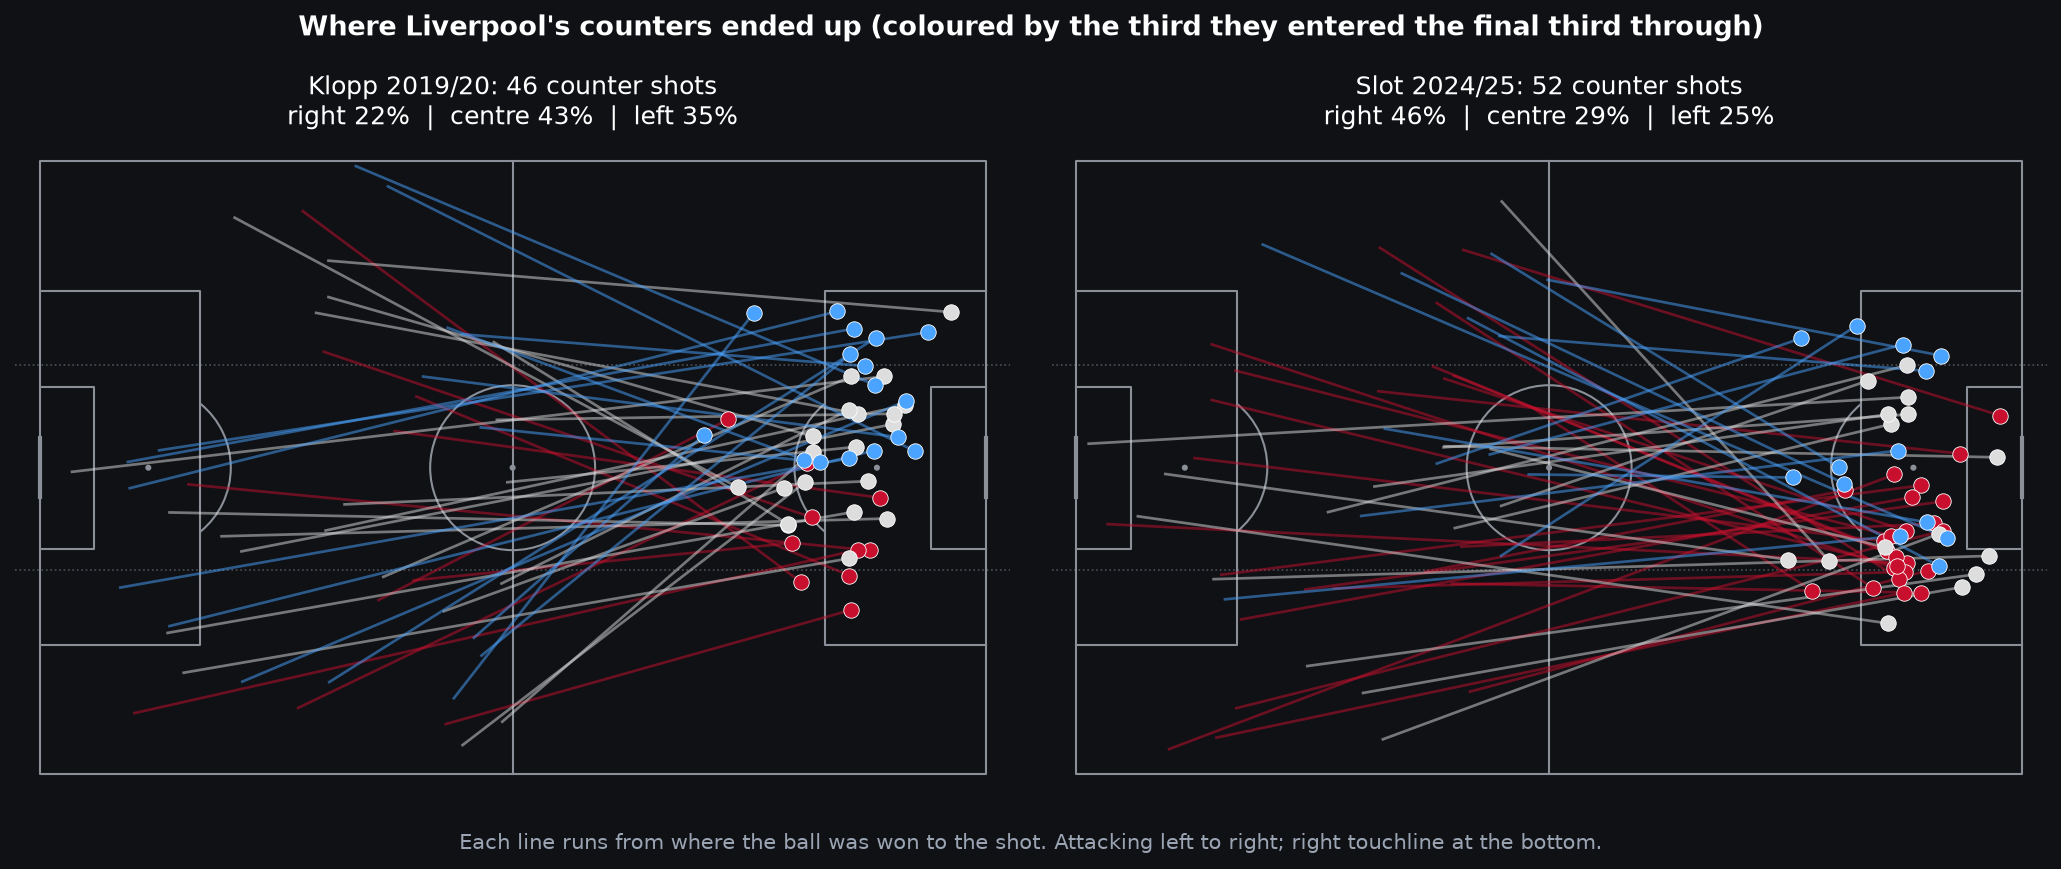
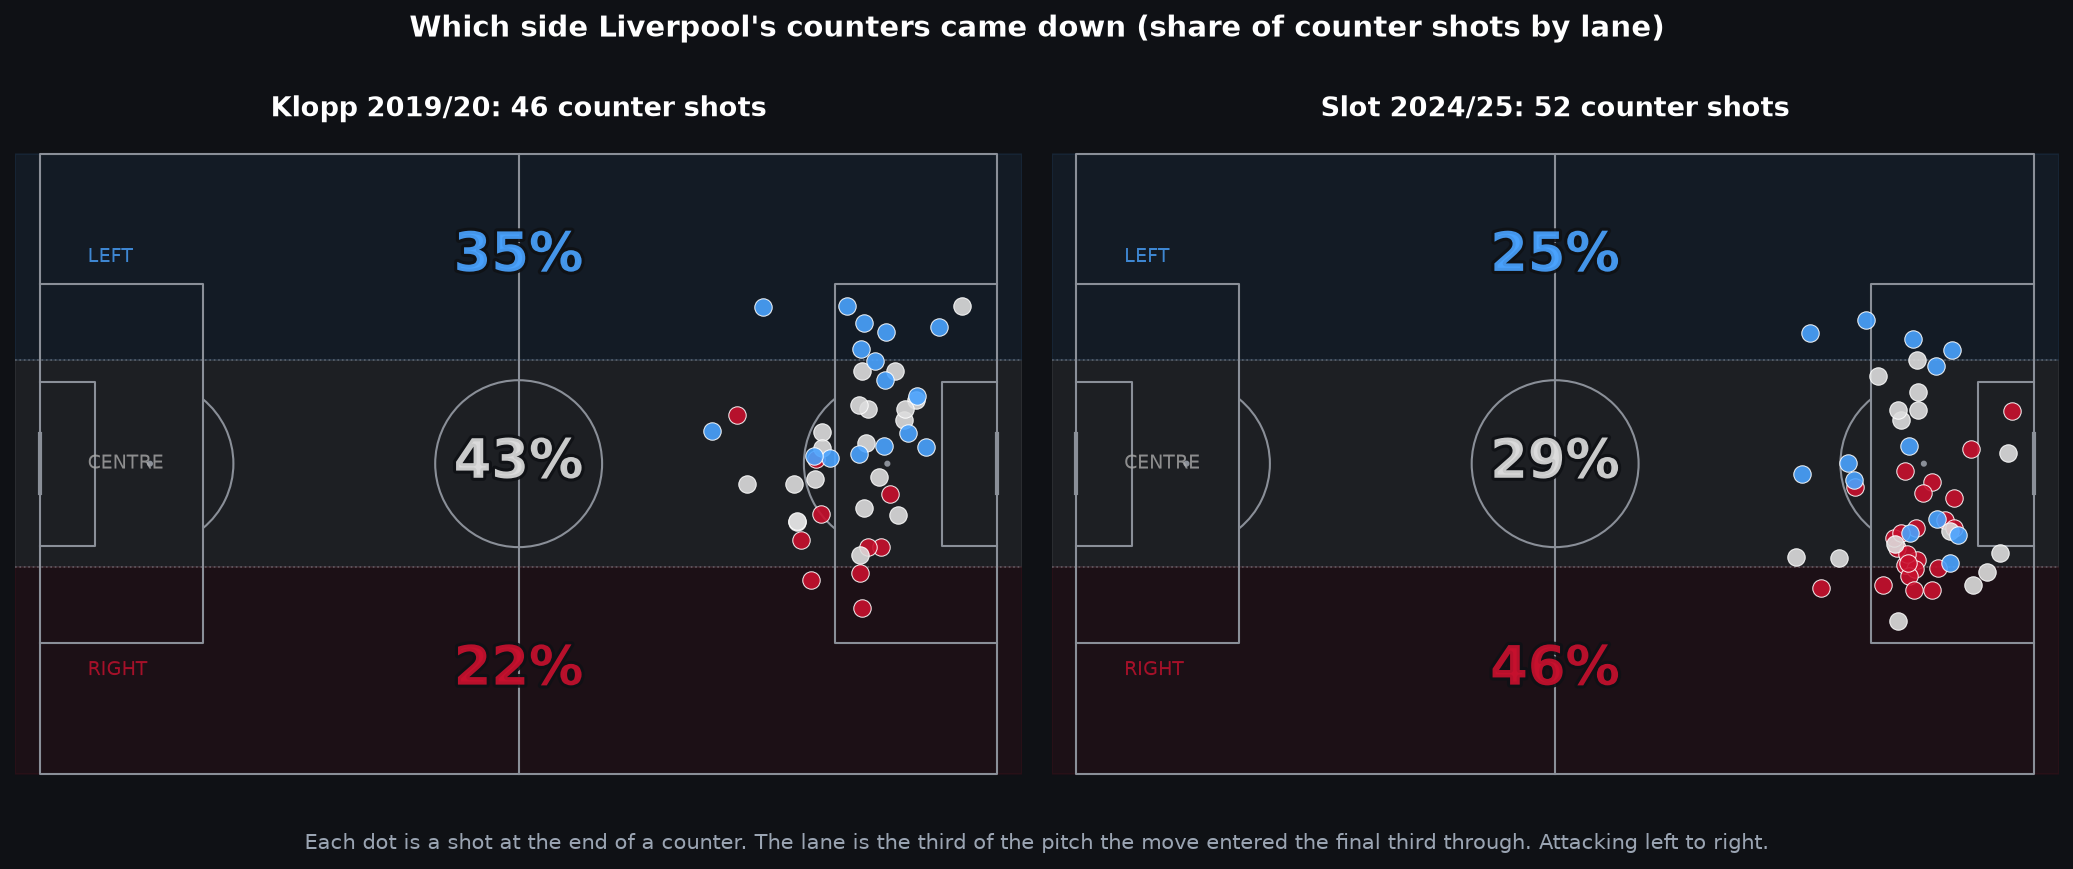
Counter chart: drop arrows, show lane percentages; add ball-recovery-by-thirds pressing chart; trim supporting-cast line

diff --git a/site/content/football/klopp-slot-liverpool-title-sides.md b/site/content/football/klopp-slot-liverpool-title-sides.md
@@ -63,7 +63,17 @@ Klopp's side had more of the ball: 63% possession against 58%, and about 110 mor
 
 One number barely moved: the press. PPDA, which measures how quickly a team swarms the ball back, was 9.8 for Klopp's side and 9.7 for Slot's. On this measure they pressed just as hard.
 
-That last point surprised me, because everyone (rightly) remembers Slot calming Liverpool down. The Premier League's own analysis found Slot's side recording a third fewer "pressed sequences" and a quarter fewer ball recoveries than Klopp's. Both can be true: Slot's side still presses hard *when it presses*, but it does so less often and holds a more compact shape the rest of the time. Our data shows the same thing from a different angle, that the team defended about four metres deeper on average even though the intensity of the press itself held up.
+That last point surprised me, because everyone (rightly) remembers Slot calming Liverpool down. The Premier League's own analysis found Slot's side recording a third fewer "pressed sequences" and a quarter fewer ball recoveries than Klopp's. Both can be true: Slot's side still presses hard *when it presses*, but it does so less often and holds a more compact shape the rest of the time.
+
+You can see that in where Liverpool actually won the ball back. Split the pitch into thirds and count every ball recovery.
+
+<figure class="chart-figure">
+  <img src="/charts/football/klopp_slot_ball_recovery_thirds.png" alt="Two pitch maps, split into defensive, middle and attacking thirds, showing the share of Liverpool's ball recoveries in each. Klopp: 42% defensive, 45% middle, 12% attacking. Slot: 47% defensive, 42% middle, 11% attacking.">
+  <figcaption>Where Liverpool won the ball back, as a share of all their regains. A bigger share higher up the pitch means winning it closer to the opponent's goal.
+  <span class="chart-source">openplay event data, Premier League 2019/20 and 2024/25.</span></figcaption>
+</figure>
+
+Both sides won plenty of it high: around an eighth of their regains came in the attacking third, and over half in the middle third or beyond. Klopp's side edged it, winning 57% of the ball in the middle and attacking thirds against Slot's 53%, so Slot's did sit a touch deeper, about four metres on average. But the shapes are close. This is two hard-pressing teams, one leaning marginally more conservative, not a presser and a counter-puncher.
 
 ## The right side swapped jobs
 
@@ -109,15 +119,15 @@ Klopp's Liverpool were famous for the counter: win it, go, score before the othe
 
 Both title sides were elite at it. Klopp's made **1.21 counter shots a game** and Slot's **1.37**, and measured as a rate (counters per ball won deep) they land in the same spot, about 12 per 100, against a league average of 8. So this wasn't one team countering and the other not. Both did it, and both did it well.
 
-What changed was the **direction**. Here's where every counter that ended in a shot went, coloured by the third of the pitch it ran through.
+What changed was the **direction**. Here's which side of the pitch every counter that ended in a shot came down.
 
 <figure class="chart-figure">
-  <img src="/charts/football/klopp_slot_counter_lanes.png" alt="Two pitch maps of Liverpool's counter-attacks that ended in a shot. Under Klopp the lines spread through the centre (43%) and left (35%). Under Slot nearly half (46%) funnel down Liverpool's right.">
-  <figcaption>Every counter that ended in a shot, from where the ball was won to the shot. Lines are coloured by which third they entered the final third through.
+  <img src="/charts/football/klopp_slot_counter_lanes.png" alt="Two pitch maps of Liverpool's counter shots split into left, centre and right lanes. Under Klopp: left 35%, centre 43%, right 22%. Under Slot: left 25%, centre 29%, right 46%.">
+  <figcaption>Each dot is a shot at the end of a counter, grouped by the third of the pitch the move came through. The percentages are the share of counter shots in each lane.
   <span class="chart-source">openplay event data, Premier League 2019/20 and 2024/25.</span></figcaption>
 </figure>
 
-Under Klopp, counters mostly ran through the middle (43%) or down the left (35%). Under Slot, **46% funnelled down Liverpool's right**, Salah's side. Same elite counter-attack, pointed in a different direction. Salah took the most counter shots under both managers, but the supporting cast changed completely: Mané, Oxlade-Chamberlain and Firmino under Klopp; Gakpo, Szoboszlai, Díaz and Jones under Slot.
+Under Klopp, counters mostly ran through the middle (43%) or down the left (35%), with the right the quietest lane (22%). Under Slot, it flips: **46% funnelled down Liverpool's right**, Salah's side. Same elite counter-attack, pointed in a different direction.
 
 ## The midfield did a different job
 
